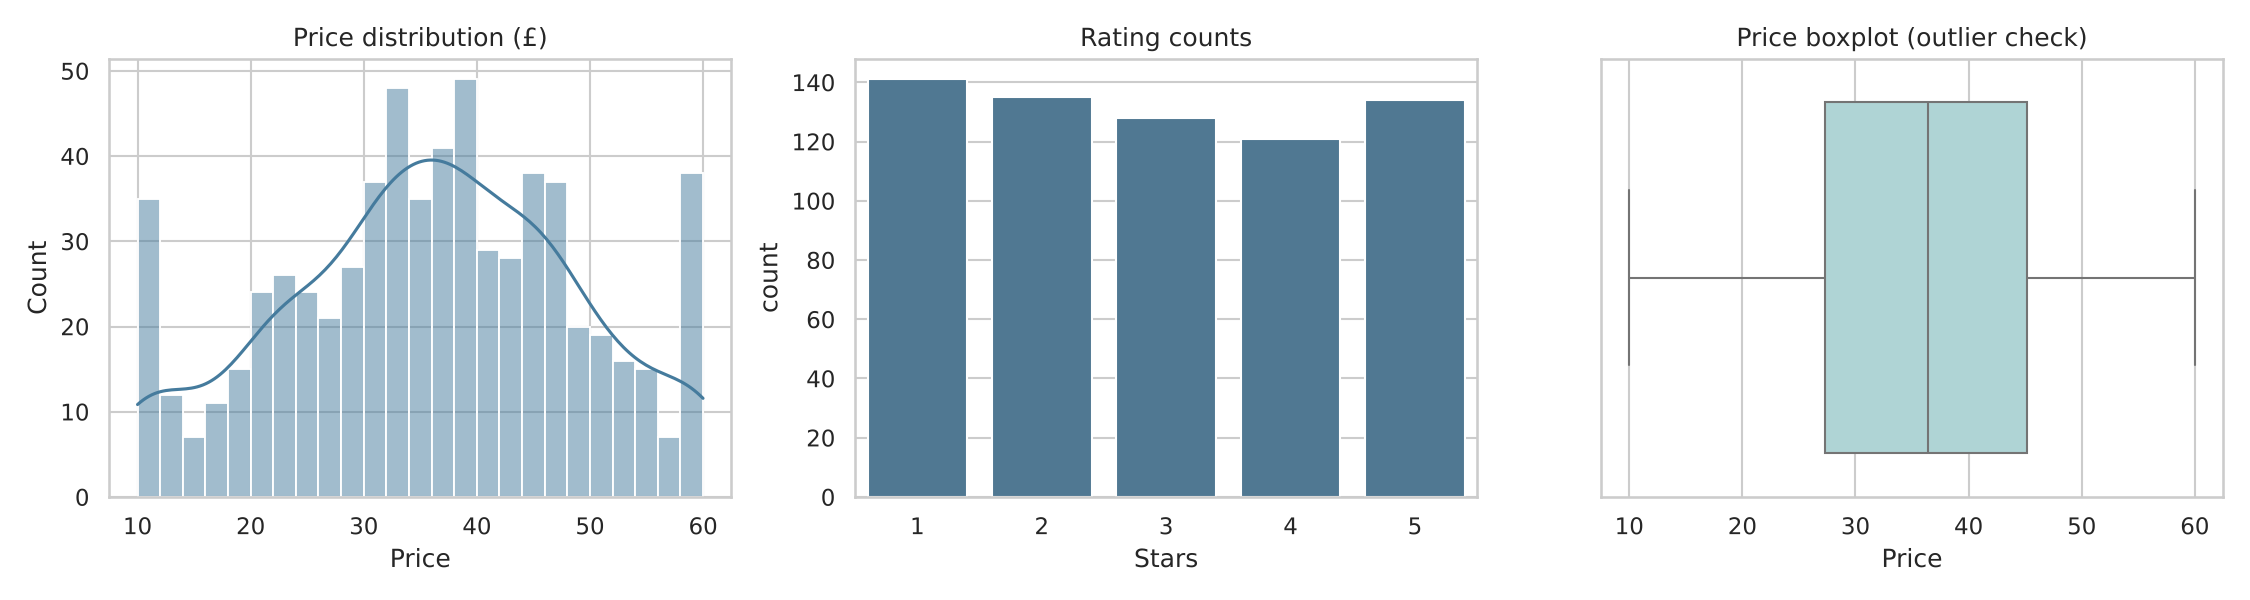
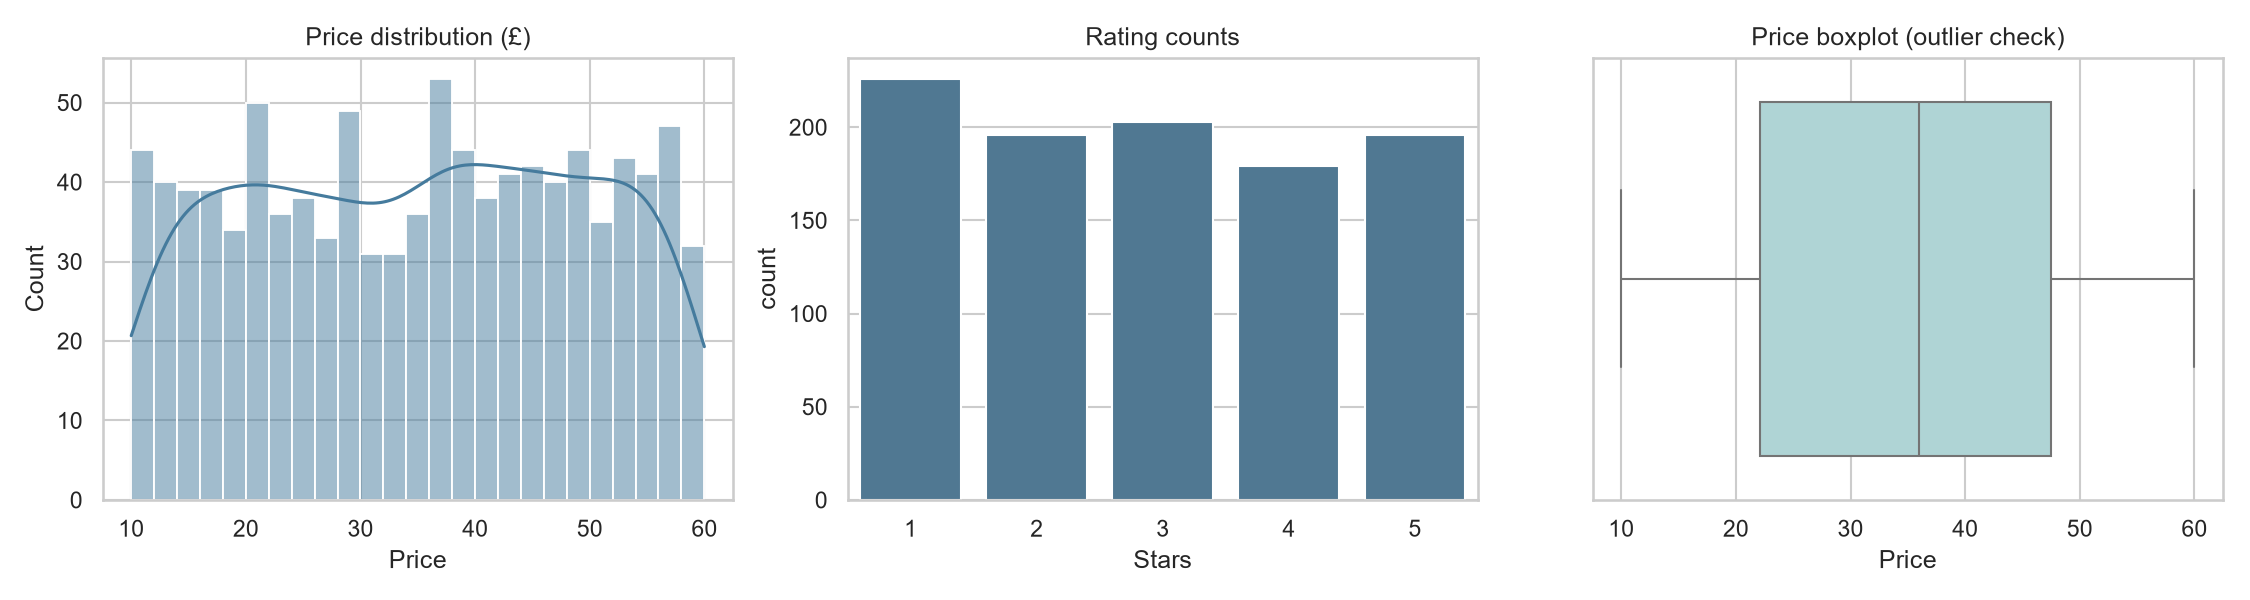
Add files via upload

diff --git a/eda_report.md b/eda_report.md
@@ -1,37 +1,35 @@
 # EDA Report
 
-Dataset: `sample_books.csv`
-
-> **Note:** this run used the synthetic sample file. Re-run on the real scraped `books.csv`.
+Dataset: `books.csv`
 
 ## 1. Structure
-- Rows: 659, columns: 6
+- Rows: 1000, columns: 6
 - Types: title (str), category (str), price_gbp (float64), rating (int64), in_stock (bool), product_url (str)
 - Missing values: 0
 - Duplicate products: 0
-- Categories: 16
+- Categories: 50
 
 ## 2. Distributions (Q1)
-- Price: mean £35.89, median £36.38, std £12.96, range £10.00-£59.99
-- Price skewness: -0.12
-- Price outliers (IQR rule, bounds £0.48-£71.95): 0
-- Rating share: 1★ 21.4%, 2★ 20.5%, 3★ 19.4%, 4★ 18.4%, 5★ 20.3%
-- In stock: 98.3%
+- Price: mean £35.07, median £35.98, std £14.45, range £10.00-£59.99
+- Price skewness: -0.04
+- Price outliers (IQR rule, bounds £-15.92-£85.48): 0
+- Rating share: 1★ 22.6%, 2★ 19.6%, 3★ 20.3%, 4★ 17.9%, 5★ 19.6%
+- In stock: 100.0%
 
 ## 3. Price vs rating (Q2)
-- Spearman correlation: rho = 0.007, p = 0.857
-- Kruskal-Wallis (price across rating levels): H = 3.59, p = 0.465
+- Spearman correlation: rho = 0.029, p = 0.356
+- Kruskal-Wallis (price across rating levels): H = 1.56, p = 0.815
 - **Conclusion:** no evidence that price depends on rating (fail to reject H0 at 5%).
 
 ## 4. Price by category (Q3)
-- Kruskal-Wallis across 15 categories with >=10 books: H = 20.09, p = 0.127
-- Cheapest median: Poetry (£30.47); priciest median: Music (£47.32)
+- Kruskal-Wallis across 25 categories with >=10 books: H = 15.06, p = 0.919
+- Cheapest median: Mystery (£25.38); priciest median: Womens Fiction (£43.58)
 - **Conclusion:** category price differences are not statistically significant.
 
 ## 5. Rating mix across categories (Q4)
-- Chi-square test of independence: chi2 = 56.3, dof = 56, p = 0.464
+- Chi-square test of independence: chi2 = 92.5, dof = 96, p = 0.583
 - **Conclusion:** no evidence that rating mix depends on category.
 
 ## 6. Data issues found (Q5)
-- 1 categories have fewer than 10 books, too small for reliable statistics
+- 25 categories have fewer than 10 books, too small for reliable statistics
 - almost every book is in stock, so `in_stock` has little analytical value
